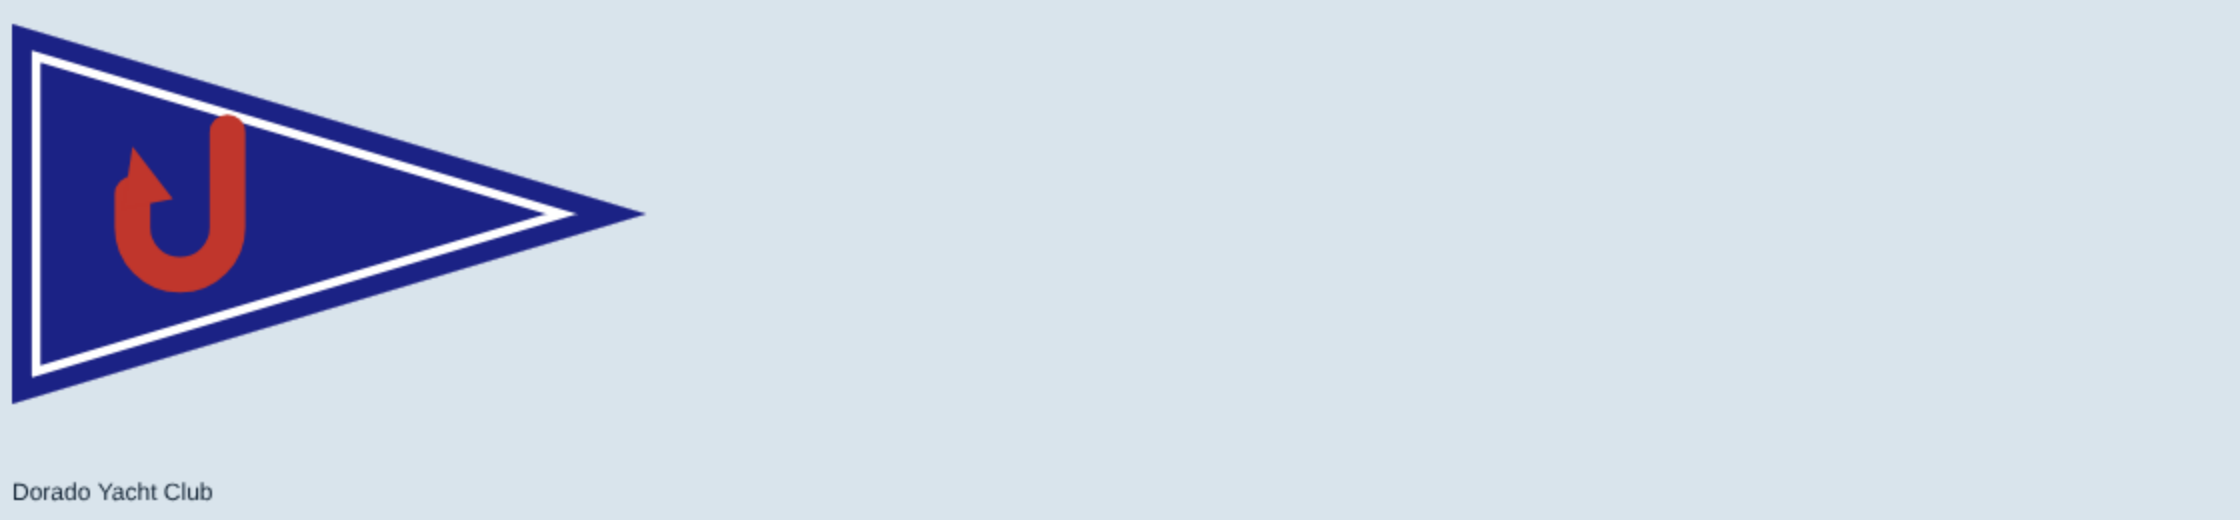
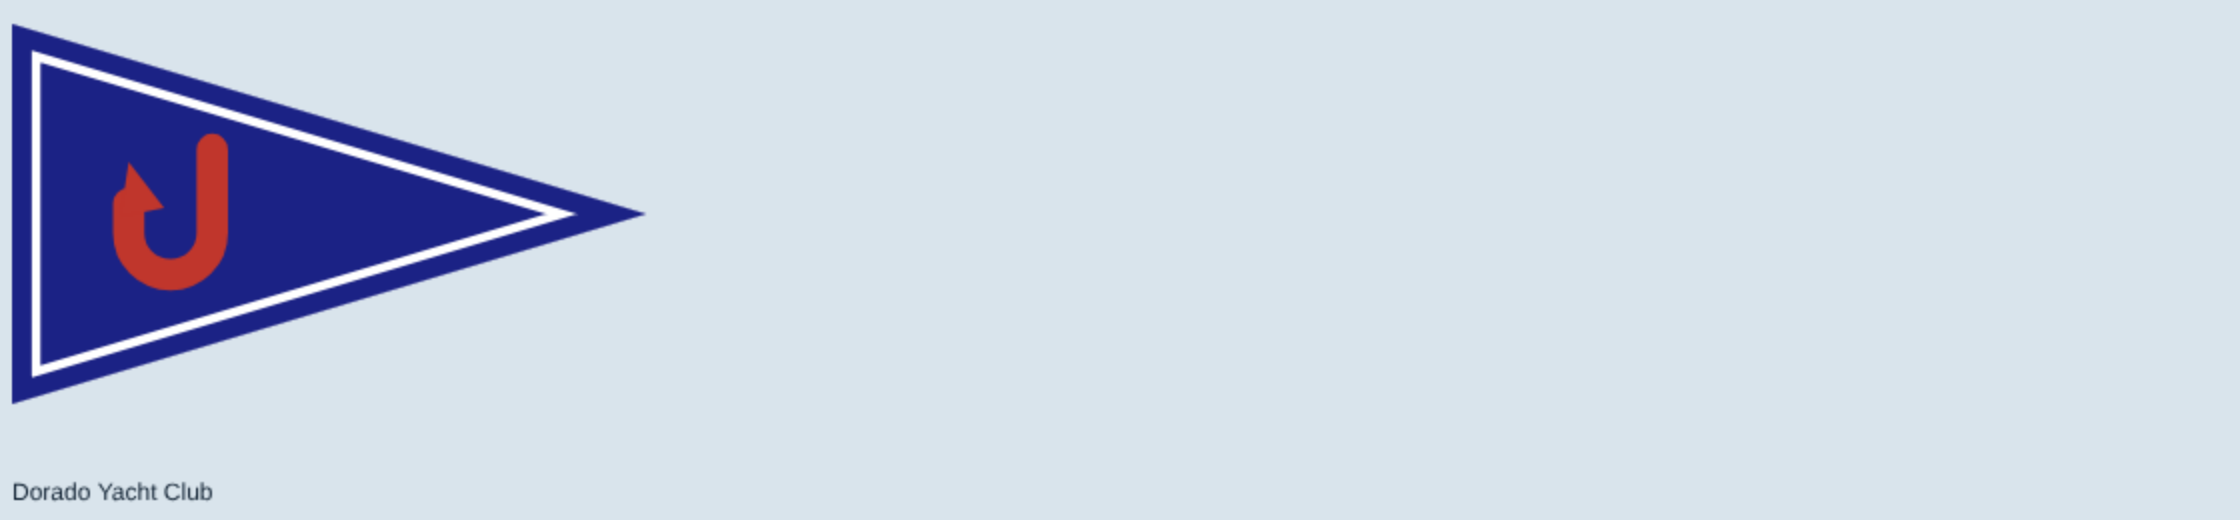
Burgees: Dorado hook clear of the white line
Claude-Session: https://claude.ai/code/session_012Uu5QjYRsEpBxuz7xgHWhs

Changed region(s): [[0.0312, 0.2154, 0.125, 0.5846]]

diff --git a/src/render/burgeeArt.ts b/src/render/burgeeArt.ts
@@ -58,7 +58,7 @@ export const PARODY_BURGEES: Burgee[] = [
       border(g, W, H, 'swallow', WHITE, 0.035); } },
   { id: 'ggyc', shape: 'pennant', ratio: 1.67, // scrappy fishermen's club (Puerto d'Oro), from the owner's template: dark blue, a thin white line inside the cut, one hook in the bridge's orange (to flag for IP review: the template is the real club's layout)
     draw: (g, W, H) => { fill(g, W, H, '#1b2285'); border(g, W, H, 'pennant', WHITE, 0.075); border(g, W, H, 'pennant', '#1b2285', 0.052);
-      g.save(); g.translate(W * 0.265, H * 0.535); g.scale(1.25, 1.25); g.strokeStyle = '#c0362c'; g.fillStyle = '#c0362c'; g.lineCap = 'round'; g.lineJoin = 'round'; g.lineWidth = H * 0.075;
+      g.save(); g.translate(W * 0.25, H * 0.55); g.scale(1.1, 1.1); g.strokeStyle = '#c0362c'; g.fillStyle = '#c0362c'; g.lineCap = 'round'; g.lineJoin = 'round'; g.lineWidth = H * 0.075;
       const r = H * 0.1; g.beginPath(); g.moveTo(r, -H * 0.2); g.lineTo(r, 0); g.arc(0, 0, r, 0, Math.PI); g.lineTo(-r, -H * 0.07); g.stroke(); // the shank, the bend and the point
       g.beginPath(); g.moveTo(-r, -H * 0.17); g.lineTo(-r + H * 0.085, -H * 0.06); g.lineTo(-r - H * 0.02, -H * 0.04); g.closePath(); g.fill(); g.restore(); } },
   { id: 'sbyc', shape: 'pennant', ratio: 1.6, // modern urban: harbor blue and orange, one bridge span
